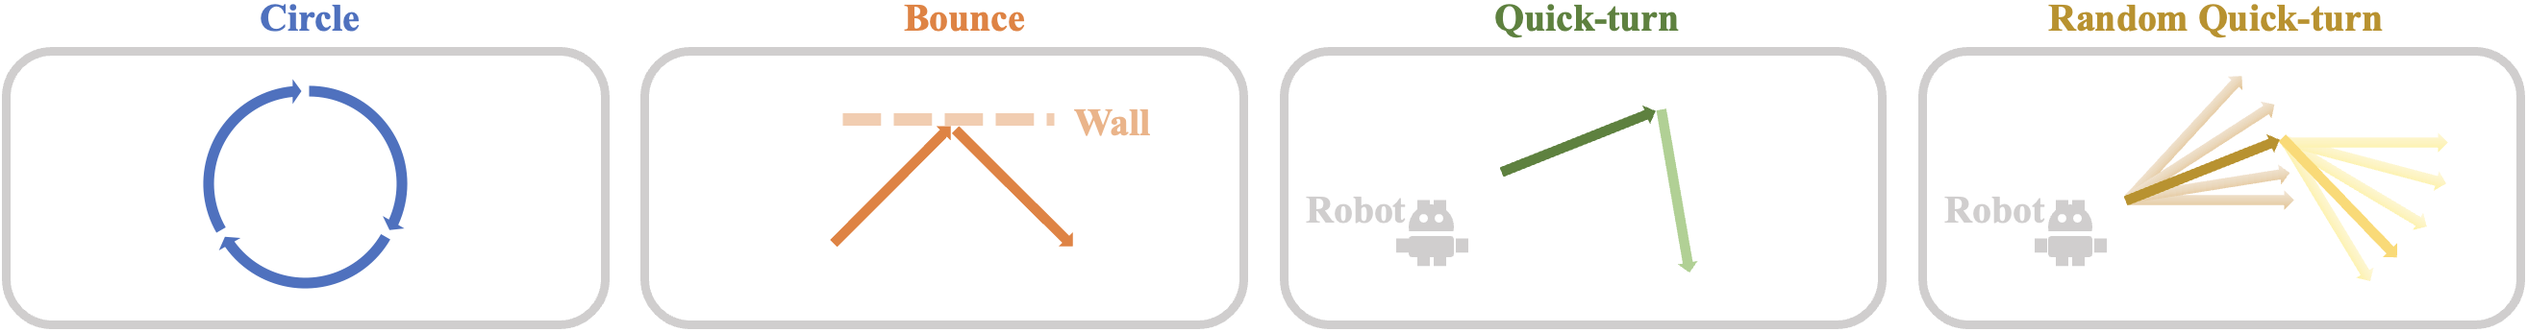
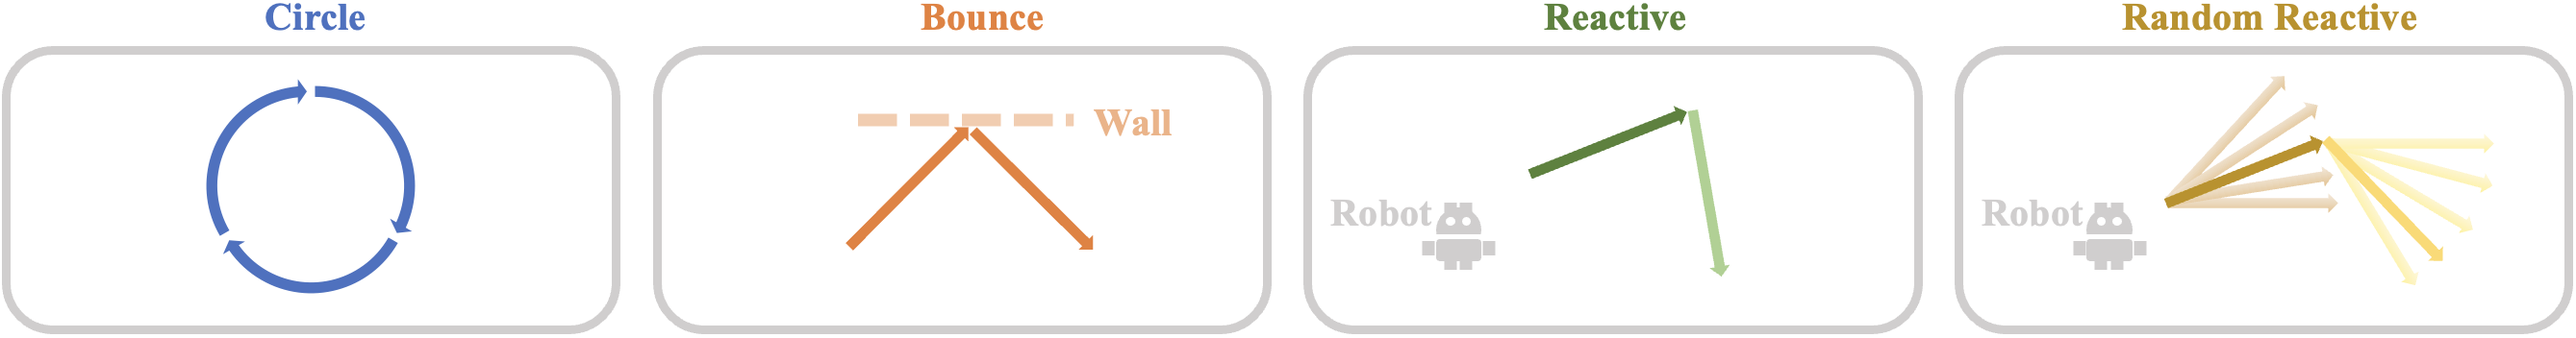
update dyncatch

diff --git a/dyncatch.html b/dyncatch.html
@@ -208,7 +208,9 @@
             </div>
             <div class="12u"><span class="image fit"><img src="images/RobotCatching/notation.png" alt="" align="top" style="margin-top: -0px;"></span></div>
 
-            <p> We also apply massively parallel training for our method (<em><b>left</b></em> is predictor learning, <em><b>right</b></em> is RL training).
+            <p> We also apply massively parallel training for our 
+                method (<em><b>left</b></em> is predictor learning, <em><b>right</b></em> is RL training) in 
+                Isaac Gym<sup><a href="https://github.com/NVIDIA-Omniverse/IsaacGymEnvs" style="text-decoration:none" >1</a></sup>.
             </p>
 
             <div class="row 50% uniform">
@@ -231,8 +233,8 @@
             <p> 
                 Experiments show that our approach can effectively learn catching policy for 
                 reactive objects at different speeds, achieving an overall success rate of 80%.
-                As shown here, the <em><b>upper</b></em> videos are low-speed (40%~50% of robot maximum speed) objects, 
-                the <em><b>bottom</b></em> videos are high-speed (80% of robot maximum speed) objects.
+                As shown here, the <em><b>upper</b></em> two videos are low-speed (40%~50% of robot's maximum speed) objects, 
+                the <em><b>bottom</b></em> two videos are high-speed (80% of robot's maximum speed) objects.
                 <!-- Experiments show that our approach can learn generalizable skills over different cabinets of the training sets and unseen test sets. 
                 We achieve an average success rate of <b>74% on training cabinets and a 51% on test cabinets</b> in the drawer opening task, significantly 
                 out-performing existing techniques (e.g., the baseline methods in ManiSkill-Learn<sup><a href="https://github.com/haosulab/ManiSkill-Learn" style="text-decoration:none" >1</a></sup>
@@ -264,10 +266,10 @@
 
             <!-- <h3 style="text-align: center;">Comparison</h3> -->
             <p>
-                Comparison: While ours (<em><b>above</b></em>) shows effectiveness in the catching task, the Monolithic RL 
-                method (<em><b>left</b></em>) without explict prediction often lets objects
-                escape catching range. Moreover, the Vanilla Predictor + RL method (<em><b>right</b></em>) where its predictor 
-                doesn't account for non-linear reactive behavior frequently results in failed catching attempts due to 
+                Comparison: while our method (<em><b>above</b></em>) shows effectiveness in the catching task, the Monolithic RL 
+                method (<em><b>below left</b></em>) without explict prediction often lets objects
+                escape catching range. Moreover, the Vanilla Predictor + RL method (<em><b>below right</b></em>) where its predictor 
+                doesn't account for robot's self actions and object's non-linear reactive behaviors frequently results in failed catching attempts due to 
                 incorrect predictions.
             </p>
             <div class="box alt">
@@ -287,7 +289,7 @@
 
             <h3 style="text-align: center;">Versatility Across Behaviors</h3>
             <p> We also show the generalizability of our method across various behaviors, including fixed circle path, bouncing off the wall,
-                 reactive behavior, and reactive behaviors with small added (random) noises.
+                 reactive behavior, and reactive behaviors with small added (random) noises (<em><b>from left to right, from top to bottom</b></em>).
             </p>
             
             <div class="12u"><span class="image fit"><img src="images/RobotCatching/behaviors.png" alt="" align="top" style="margin-top: -0px;"></span></div>
@@ -351,7 +353,7 @@
                 </div>
             </div>
 
-            <p>The <em><b>upper</b></em> four videos show room environments, 
+            <p>The <em><b>above</b></em> four videos show room environments, 
                 the <em><b>below</b></em> four videos show woods environments.</p>
             <div class="box alt">
                 <div class="row 50% uniform">
